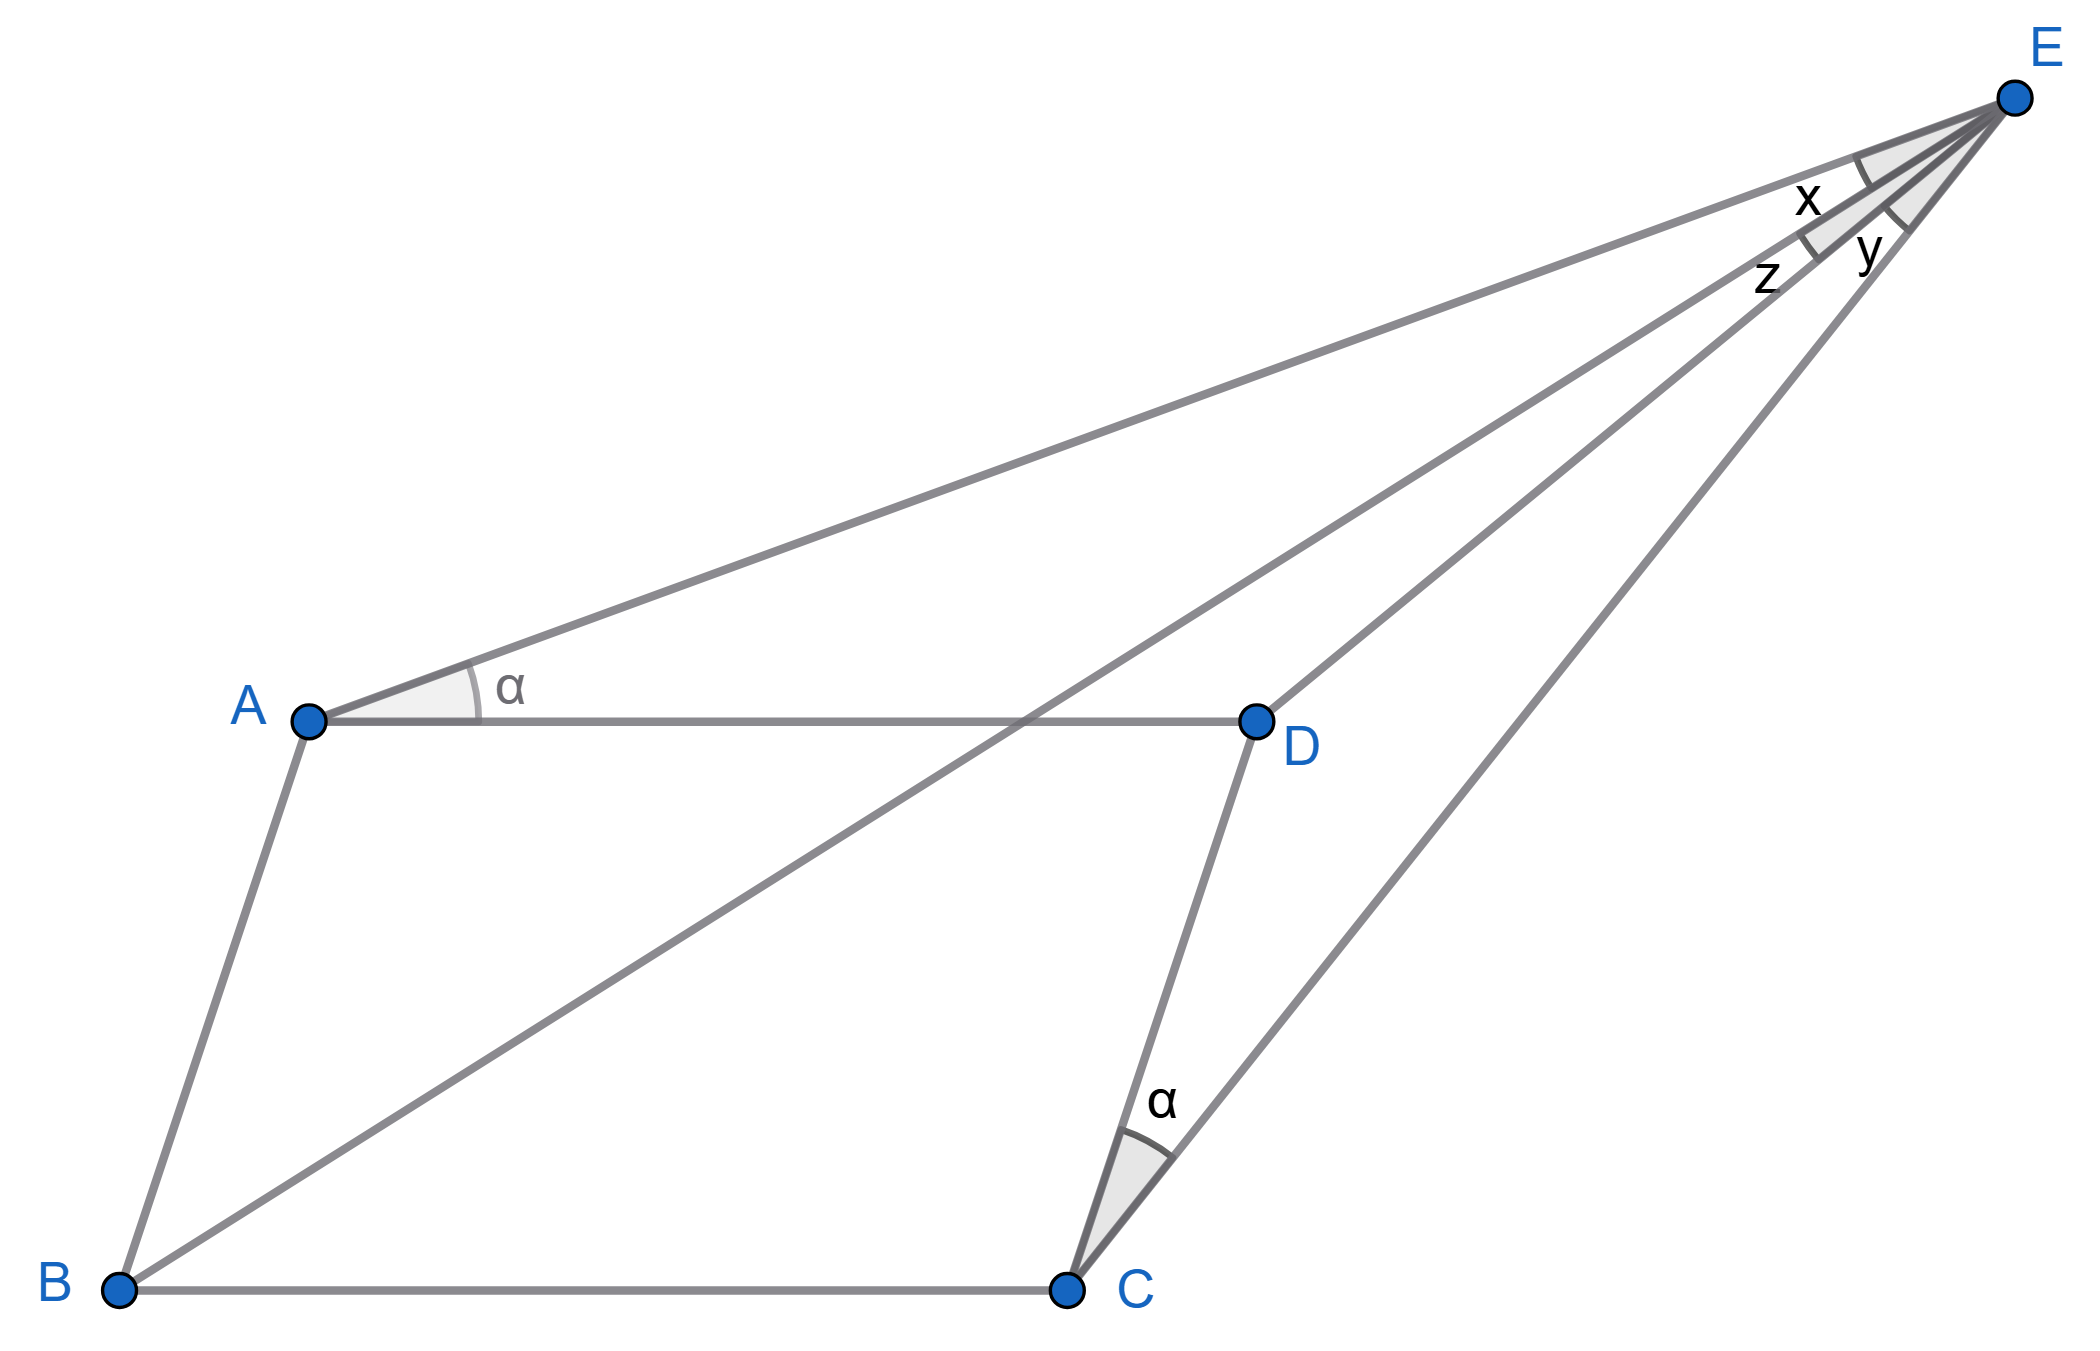
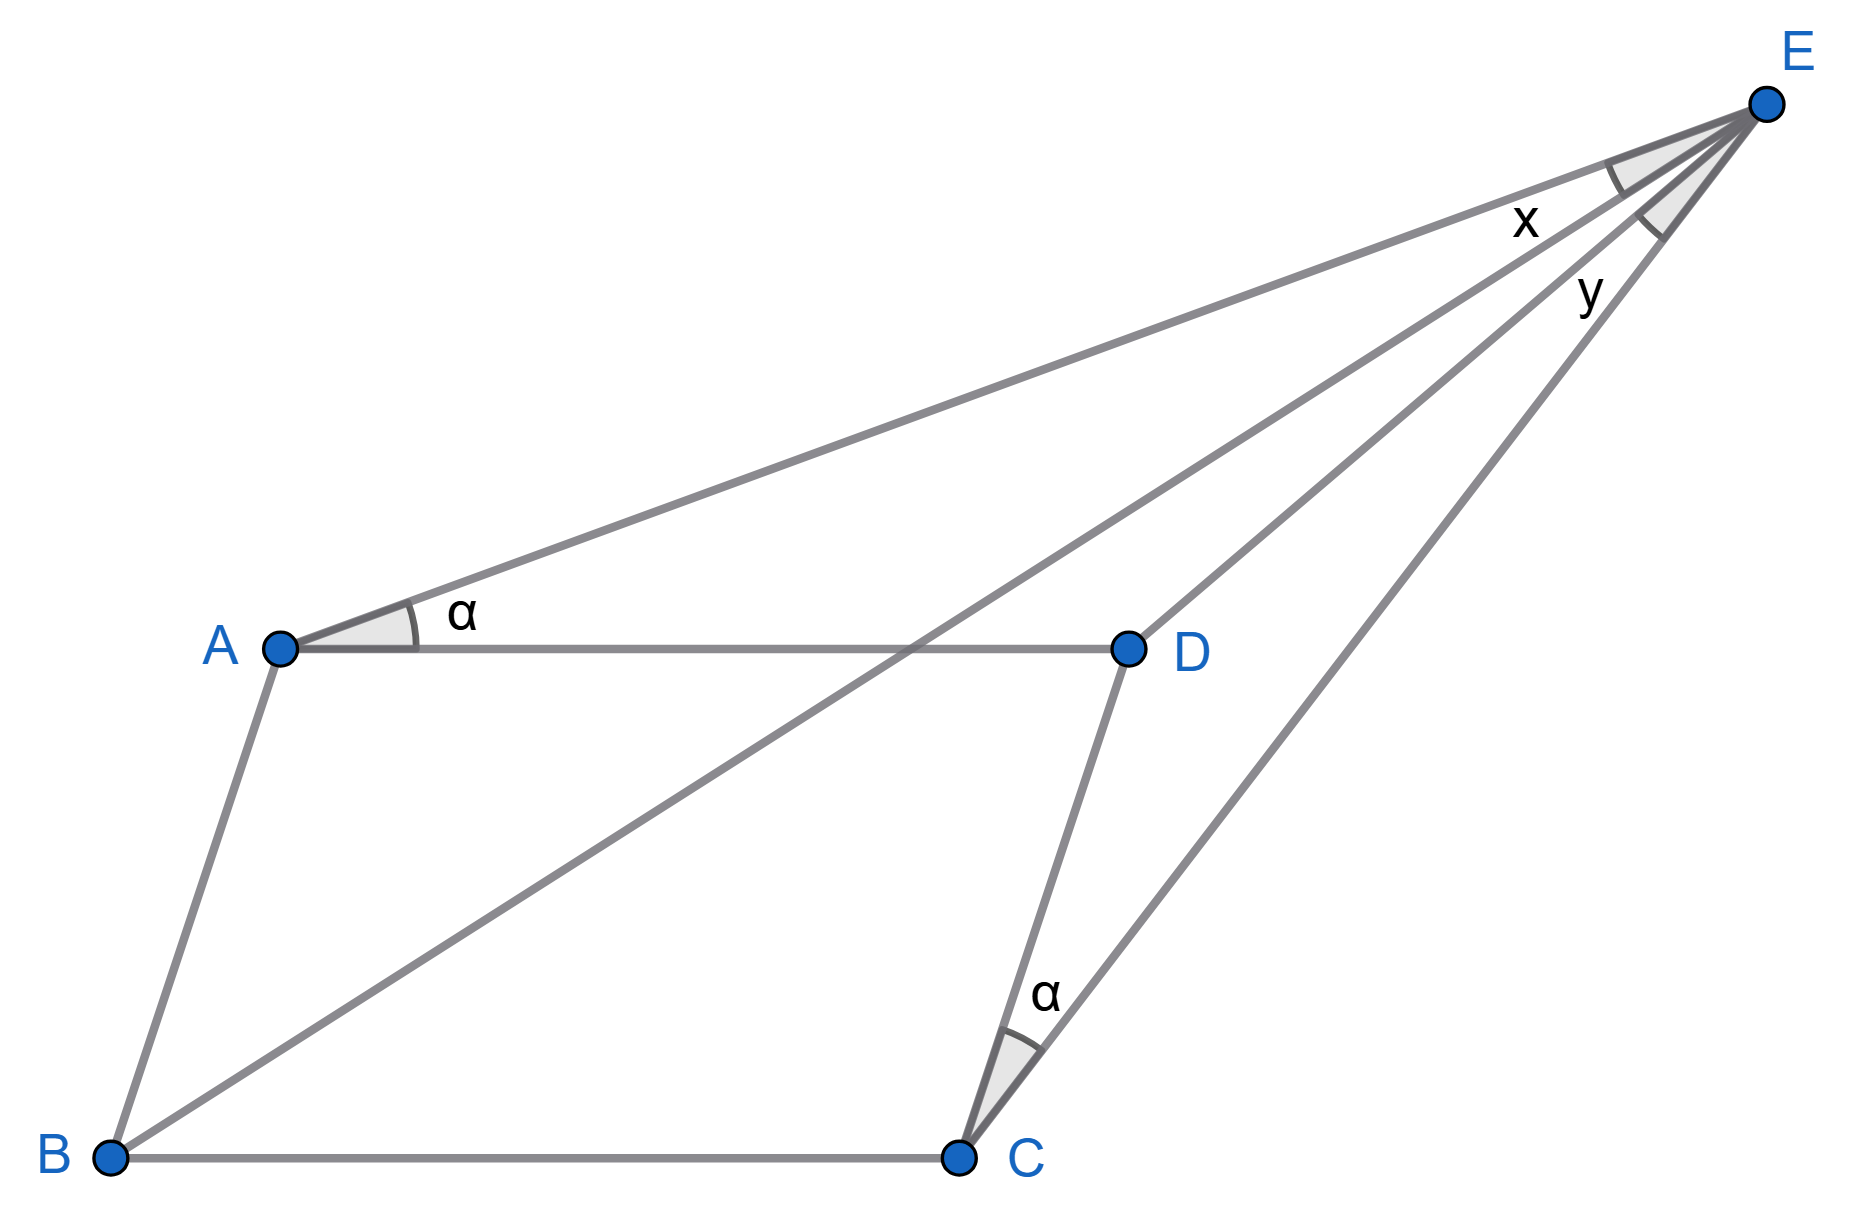
Add files via upload

diff --git a/PROB/224.html b/PROB/224.html
@@ -125,17 +125,17 @@ A pinch of trigonometry: Use the law of sines once in $\triangle ADE$ and $\tria
 </p>
 <p id="spoiler2" class="displayNone ignoreMJ">      
 <img src="geo5.png" style="float:right;width:41%;margin:0.0em;padding: 1.0em;">
-<br><br>
-<i>Geometric reasoning.</i> Take the point $F$ so $ABFE$ and $DCFE$ are paralleograms. Then $\angle FBC = \angle FEC = \alpha$, so the four points $B,C,F,E$ lie on a circle. Thus, 
+<i>Geometric reasoning.</i> Take the point $F$ so that $ADEF$ and $BCEF$ are paralleograms. Then $\angle ABF = \angle AEF = \alpha$, so the four points $A,B,E,F$ lie on a circle. Thus, 
 $$
-y+z = \angle BFC = \angle AED =x+z,
+x = \angle AEB = \angle AFB = \angle DEC = y,
 $$ 
-from which it follows that $x=y$. 
+as required. 
 <br><br>
-<i>Trigonometry.</i> Applying the law of sines in $\triangle ADE$ and $\triangle DCE$ gives
+<i>Trigonometry.</i> Set $\angle BAD=\angle BCD = \beta$ and $\angle BED =z$, as in the bottom figure. Applying the law of sines in $\triangle ADE$ and $\triangle DCE$ gives
 $$
 \frac{DC}{\sin y}=\frac{DE}{\sin \alpha} = \frac{AD}{\sin(x+z)}.
 $$
+<img src="geo6.png" style="float:right;width:41%;margin:0.0em;padding: 1.0em;">
 Similarly, applying the same law in $\triangle ABE$ and $\triangle BCE$ gives
 $$
 \frac{AB}{\sin x}=\frac{BE}{\sin (\alpha+\beta)} = \frac{BC}{\sin(y+z)}.
